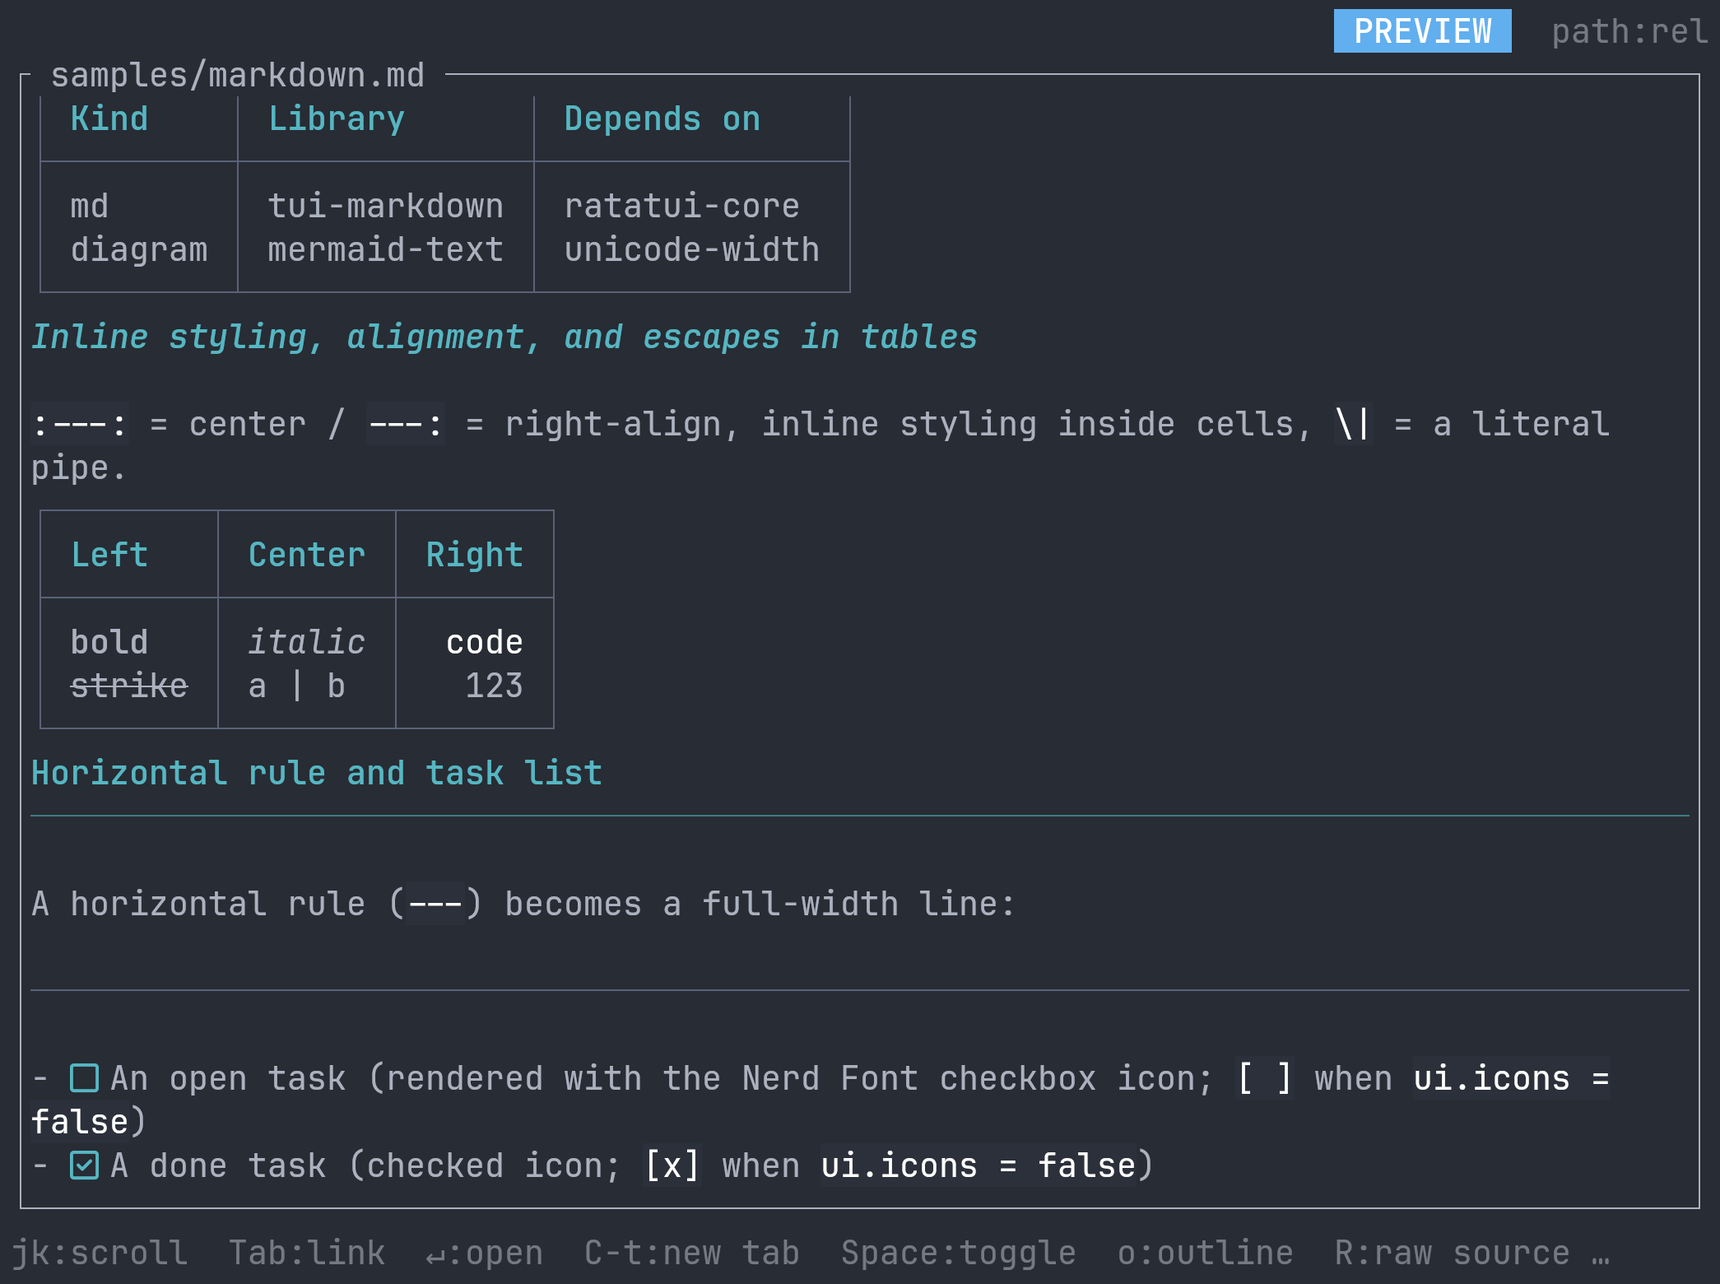
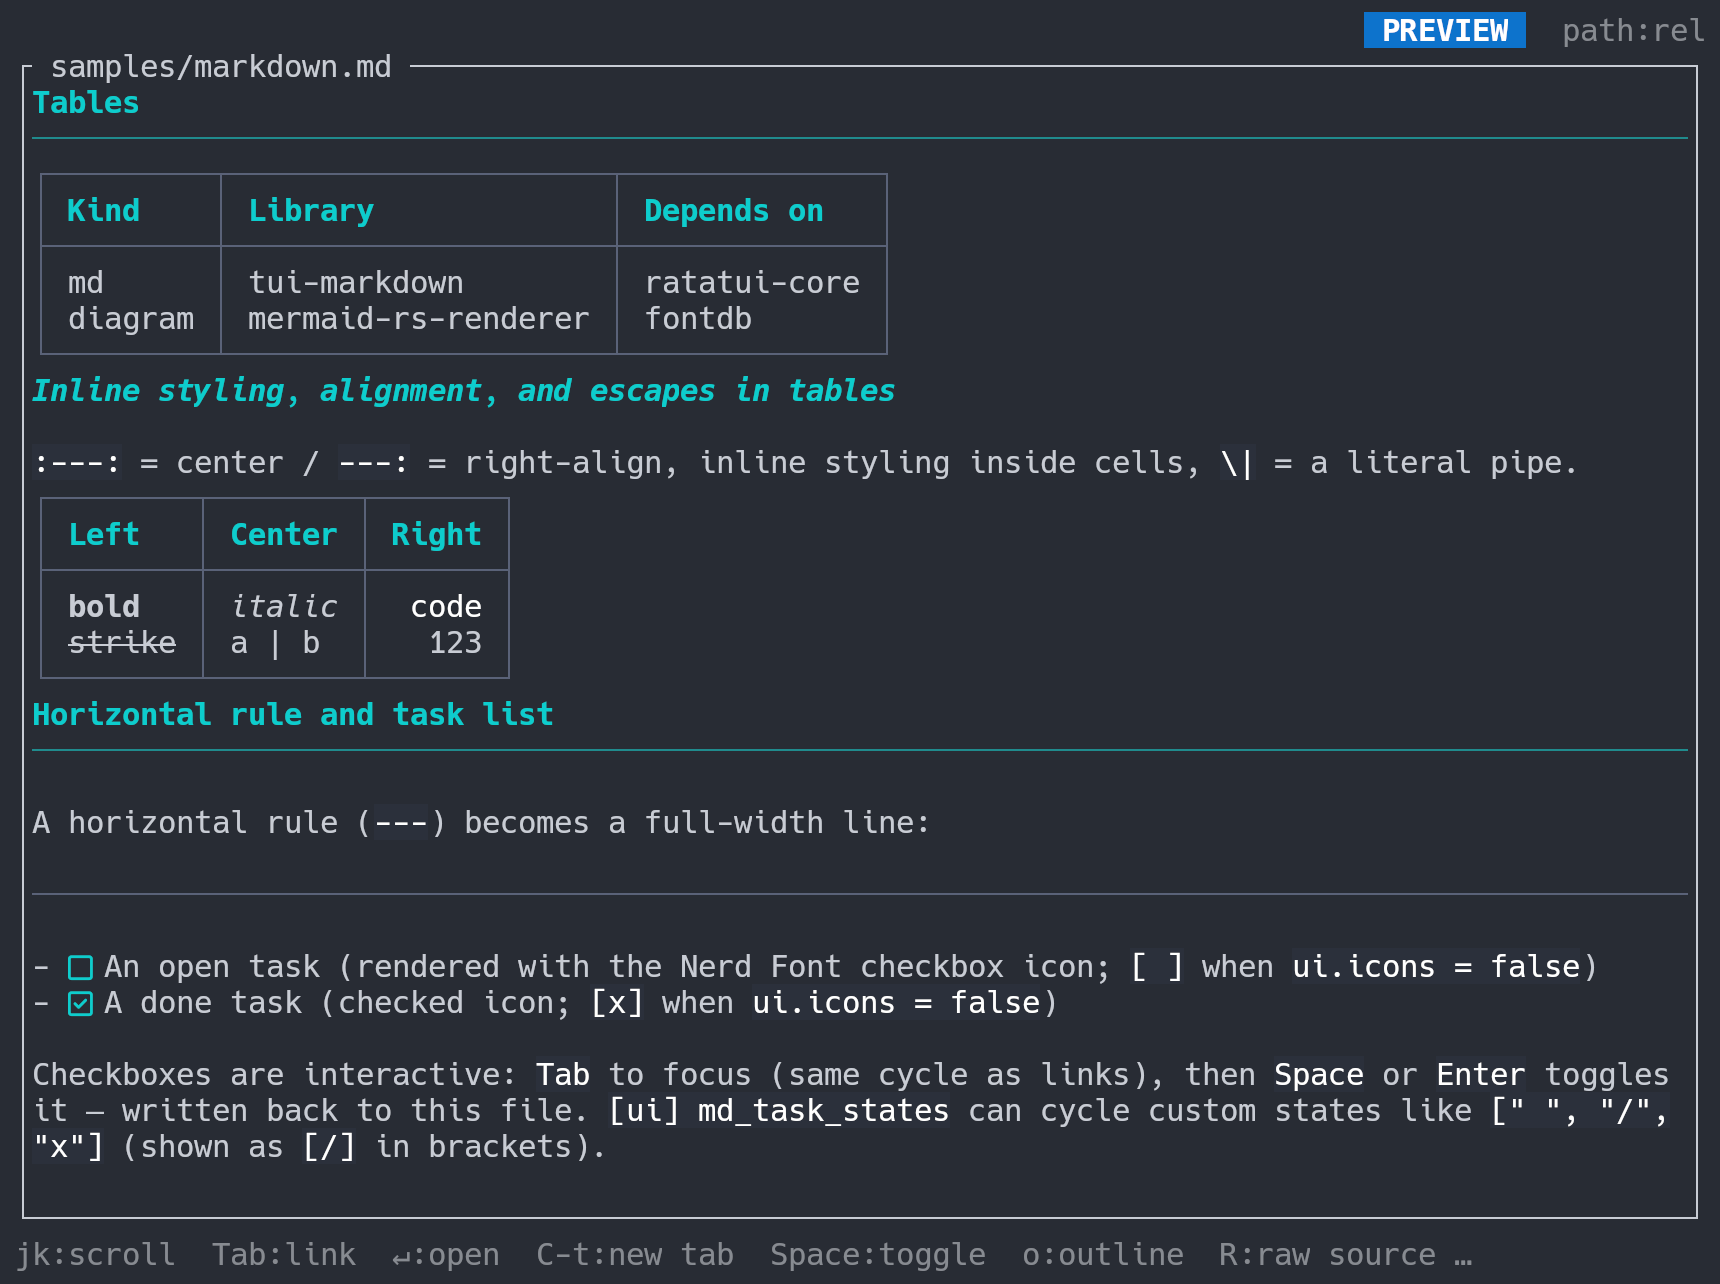
docs: stop the samples describing a renderer konoma no longer defaults to
The Mermaid diagram in samples/markdown.md said konoma renders a fenced
diagram with mermaid-text. That has not been the default since v0.15.0 --
diagrams go through mermaid-rs-renderer to SVG and are rasterized into
real pixels; mermaid-text now only serves `[ui] mermaid = "text"` and the
fallback when rasterizing fails. The same page's dependency table named
mermaid-text and unicode-width, and samples/sequence.mmd said the same
thing in its own words.

This mattered more than a stale line in a sample usually would: that
diagram is the subject of the README's headline screenshot, so konoma was
describing its own architecture incorrectly in the first picture anyone
sees.

Both Markdown screenshots are re-shot from the corrected samples, and two
things are fixed in the process. The Markdown frame now actually contains
the LaTeX math its caption used to promise -- three formulas typeset and
drawn as images, next to the Mermaid diagram -- where the old frame ended
at the "Math" heading and showed none. It also no longer opens on a hero
image sliced through the middle. The rich-text frame gains the whole
table it previously cut the top border off, and its dependency row now
reads mermaid-rs-renderer / fontdb (fontdb verified with cargo tree; the
resvg that rasterizes the SVG is konoma's dependency, not the renderer's).
Captions and alt text follow what the frames now show.

The landing page's animated terminal quoted a footer that does not
[…]

diff --git a/README.md b/README.md
@@ -28,6 +28,21 @@ peering through the gaps between the trees to look into the contents of the file
 — getting started, guides and full reference, in English and
 [日本語](https://lesim-co-ltd.github.io/konoma/ja/).
 
+## Quick start
+
+```bash
+cargo binstall konoma   # prebuilt binary, no compilation
+cargo install konoma    # or compile from crates.io
+konoma [DIR]            # opens DIR (defaults to the current directory)
+```
+
+**There is nothing else to install.** Images, PDF, SVG, Mermaid diagrams, LaTeX math, CSV and
+H.264/HEVC video thumbnails are all rendered by konoma itself, in pure Rust. Two optional extras
+add the rest: `git` enables the in-app git suite and `ffmpeg` covers the remaining video formats —
+a missing one costs you that one feature, never the app. See [Install](#install) for every
+installation route and [Requirements and optional tools](#requirements-and-optional-tools) for
+the terminal, font and tool details.
+
 ## Why it exists
 
 When you want a tree + preview pane filling one half of the screen while you work on the
@@ -50,9 +65,9 @@ in-between split view.
 </table>
 
 <p align="center">
-  <img src="https://raw.githubusercontent.com/LESIM-Co-Ltd/konoma/main/assets/markdown.png" alt="Inline images and a Mermaid diagram rendered in a Markdown preview" width="860">
+  <img src="https://raw.githubusercontent.com/LESIM-Co-Ltd/konoma/main/assets/markdown.png" alt="A Mermaid diagram and LaTeX math rendered as real images in a Markdown preview" width="860">
 </p>
-<p align="center"><b>Markdown</b> — inline images and Mermaid diagrams, rendered right in the preview</p>
+<p align="center"><b>Markdown</b> — Mermaid diagrams and LaTeX math, typeset and drawn as real images in the preview</p>
 
 <p align="center">
   <img src="https://raw.githubusercontent.com/LESIM-Co-Ltd/konoma/main/assets/markdown-richtext.png" alt="Tables with inline styling and alignment, a horizontal rule, and interactive task lists in a Markdown preview" width="860">
@@ -141,28 +156,6 @@ Pre-release (feature-complete). The milestones below track what is implemented.
 - [x] crates.io publish
 - [x] Prebuilt binaries and `cargo binstall` (macOS, Linux `x86_64`)
 
-The gate for the full experience is the **terminal**, not the OS:
-
-- **Images, PDF pages, SVG, Mermaid diagrams, LaTeX math and video thumbnails** are drawn as **real
-  pixels** in any terminal that speaks a graphics protocol — **[kitty
-  graphics](https://sw.kovidgoyal.net/kitty/graphics-protocol/)** ([Ghostty](https://ghostty.org),
-  [kitty](https://sw.kovidgoyal.net/kitty/), [WezTerm](https://wezterm.org), Konsole), **iTerm2**, or
-  **sixel**. konoma has its own compressed transfer for the kitty protocol, so those terminals are the
-  fastest. Anywhere else the picture degrades to a **half-block approximation** — coarse, but visible.
-  **Text previews** (Markdown, code, git diffs, CSV, tables) work in **any** terminal.
-- **OS**: konoma runs on **macOS and Linux** (Unix). Of the combinations, **macOS on Apple Silicon** is the
-  most battle-tested; Intel macOS works too, and **Linux (`x86_64`)** builds and passes the full test suite
-  in CI, ships prebuilt binaries, and has had its previews verified rendering via kitty graphics — still
-  **beta**, as it is newer than the macOS path. **Windows is not supported** (Unix-only APIs).
-- **Fonts**: **icons** need [Nerd Font](https://www.nerdfonts.com/) glyphs (or set `ui.icons = false`), and
-  **CJK text** (the `jp` UI, CJK filenames/contents) needs the terminal font to include **CJK glyphs** or it
-  shows as tofu (□) — konoma computes the widths correctly regardless. A Nerd-Font-patched CJK font like
-  **HackGen Console NF** covers both in one font.
-- **Optional tools** (all degrade gracefully): `ffmpegthumbnailer`/`ffmpeg` (video formats konoma
-  cannot decode itself — see below), `git` (git suite), `lazygit` (external git tool on `!`).
-  **Images, SVG, Mermaid, LaTeX math, CSV, PDF and H.264/HEVC video thumbnails need nothing installed
-  at all** — konoma renders them itself, in pure Rust.
-
 ## Install
 
 Prebuilt binaries (fastest — no compilation) via [cargo-binstall](https://github.com/cargo-bins/cargo-binstall):
@@ -200,7 +193,25 @@ Press `?` in the app for the full, context-sensitive key reference.
 ([日本語](samples/tutorial.ja.md)) *inside konoma* — a hands-on walkthrough with
 links you can follow and checkboxes you can actually toggle.
 
-## Optional tools
+## Requirements and optional tools
+
+The gate for the full experience is the **terminal**, not the OS:
+
+- **Terminal**: **images, PDF pages, SVG, Mermaid diagrams, LaTeX math and video thumbnails** are drawn
+  as **real pixels** in any terminal that speaks a graphics protocol — **[kitty
+  graphics](https://sw.kovidgoyal.net/kitty/graphics-protocol/)** ([Ghostty](https://ghostty.org),
+  [kitty](https://sw.kovidgoyal.net/kitty/), [WezTerm](https://wezterm.org), Konsole), **iTerm2**, or
+  **sixel**. konoma has its own compressed transfer for the kitty protocol, so those terminals are the
+  fastest. Anywhere else the picture degrades to a **half-block approximation** — coarse, but visible.
+  **Text previews** (Markdown, code, git diffs, CSV, tables) work in **any** terminal.
+- **OS**: konoma runs on **macOS and Linux** (Unix). Of the combinations, **macOS on Apple Silicon** is the
+  most battle-tested; Intel macOS works too, and **Linux (`x86_64`)** builds and passes the full test suite
+  in CI, ships prebuilt binaries, and has had its previews verified rendering via kitty graphics — still
+  **beta**, as it is newer than the macOS path. **Windows is not supported** (Unix-only APIs).
+- **Fonts**: **icons** need [Nerd Font](https://www.nerdfonts.com/) glyphs (or set `ui.icons = false`), and
+  **CJK text** (the `jp` UI, CJK filenames/contents) needs the terminal font to include **CJK glyphs** or it
+  shows as tofu (□) — konoma computes the widths correctly regardless. A Nerd-Font-patched CJK font like
+  **HackGen Console NF** covers both in one font.
 
 konoma never breaks when an external tool is missing — the relevant preview just degrades to a hint
 (principle: "unsupported is shown safely, never a crash"). Install these to enable richer previews:
@@ -223,9 +234,7 @@ sudo apt install ffmpeg git lazygit       # Debian / Ubuntu
 
 Images, **PDF**, SVG, Markdown, Mermaid, LaTeX math, CSV and code need nothing extra — konoma renders
 them itself, in pure Rust. (On macOS only, a PDF the built-in renderer cannot draw falls back to the
-system's own `qlmanage`/`sips` for its first page — already installed, nothing to add.) The picture
-formats are drawn as real pixels in any terminal that speaks a graphics protocol — kitty graphics,
-iTerm2, or sixel — and degrade to a half-block approximation elsewhere; text previews work anywhere.
+system's own `qlmanage`/`sips` for its first page — already installed, nothing to add.)
 
 ## Configuration
 

diff --git a/samples/markdown.ja.md b/samples/markdown.ja.md
@@ -26,7 +26,7 @@ fn main() {
 | 種別 | ライブラリ | 依存 |
 |------|------------|------|
 | md   | tui-markdown | ratatui-core |
-| 図   | mermaid-text | unicode-width |
+| 図   | mermaid-rs-renderer | fontdb |
 
 ### 表のインライン装飾・整列・エスケープ
 
@@ -119,7 +119,7 @@ x<sup>2</sup>、<del>非推奨</del> は打消し線。<br>で改行も効く。
 graph TD
   A[ツリー] -->|Enter| B{種別解決}
   B -->|.md| C[tui-markdown]
-  B -->|mermaid fence| D[mermaid-text]
+  B -->|mermaid fence| D[SVG → 実ピクセル]
   C --> E[全画面プレビュー]
   D --> E
 ```

diff --git a/samples/markdown.md b/samples/markdown.md
@@ -26,7 +26,7 @@ fn main() {
 | Kind | Library | Depends on |
 |------|---------|------------|
 | md   | tui-markdown | ratatui-core |
-| diagram | mermaid-text | unicode-width |
+| diagram | mermaid-rs-renderer | fontdb |
 
 ### Inline styling, alignment, and escapes in tables
 
@@ -120,7 +120,7 @@ A full demo covering remote images, an SVG badge, and text fallback on a failed 
 graph TD
   A[Tree] -->|Enter| B{Resolve kind}
   B -->|.md| C[tui-markdown]
-  B -->|mermaid fence| D[mermaid-text]
+  B -->|mermaid fence| D[SVG to pixels]
   C --> E[Full-screen preview]
   D --> E
 ```
